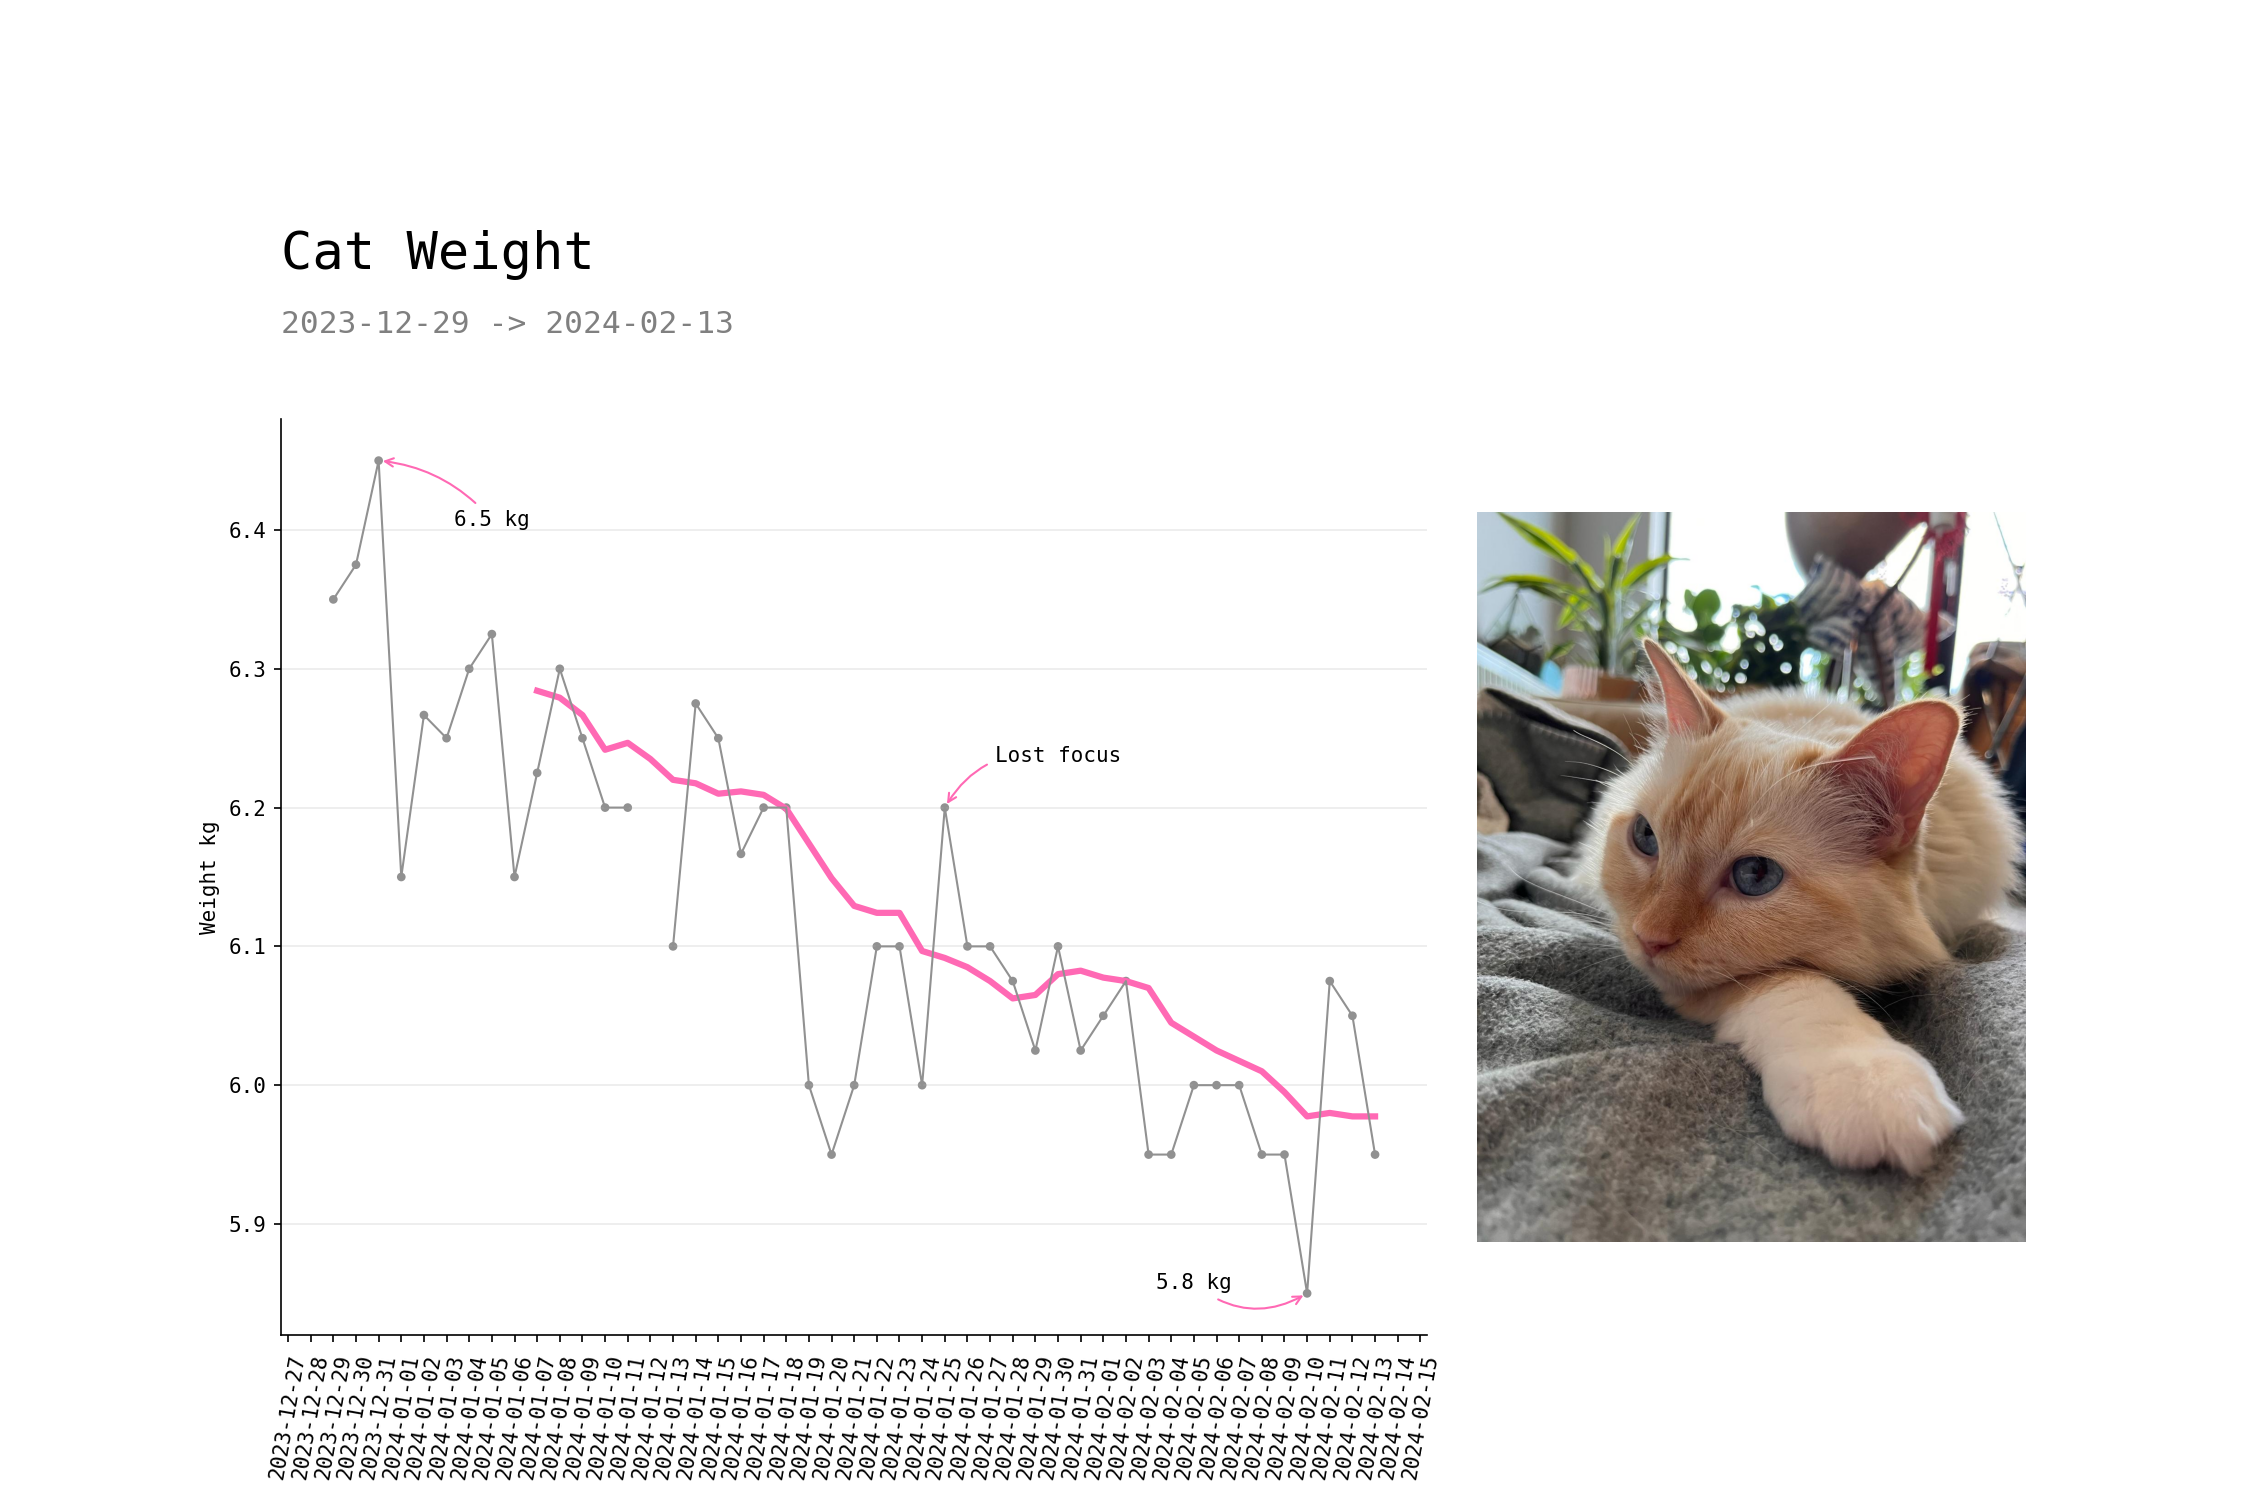
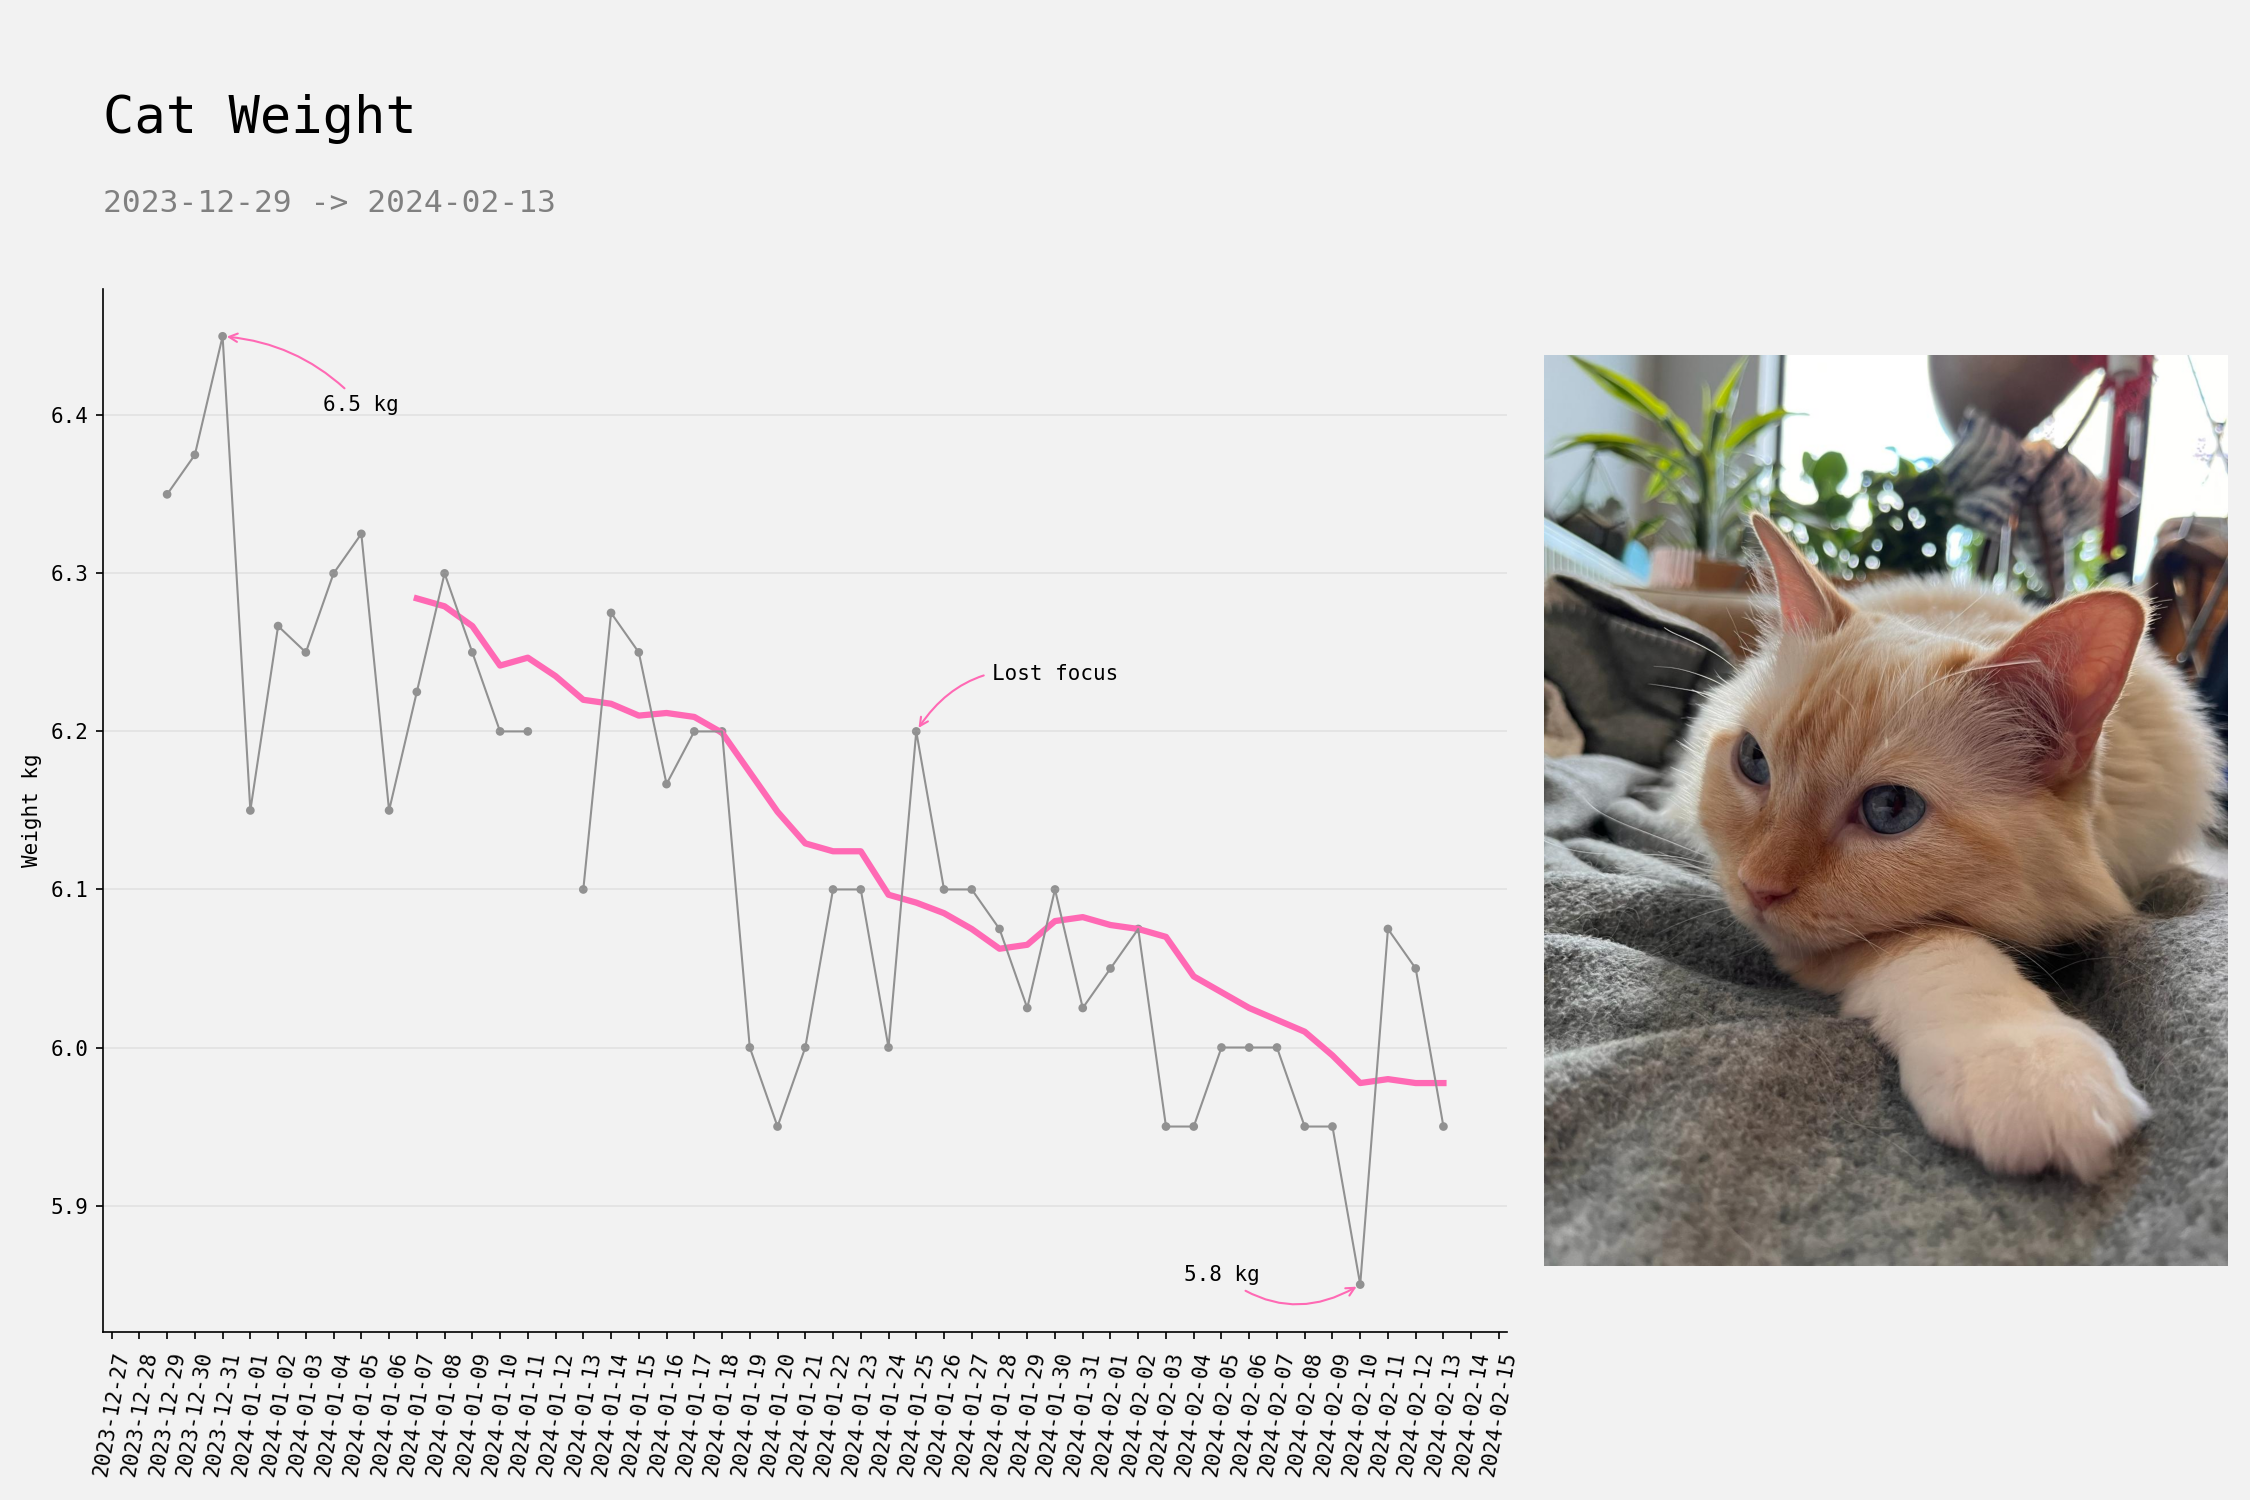
Update typing (#4)

diff --git a/plotting_examples/y2022/stacked_bar_with_single_bars_layout/plot.py b/plotting_examples/y2022/stacked_bar_with_single_bars_layout/plot.py
@@ -199,7 +199,7 @@ class PlotSections:
     # rename to bivariate.
     @staticmethod
     def main(
-        ax: plt.Axes,
+        ax: plt.Axes,  # type: ignore[name-defined]
         df: pd.DataFrame,
         vvl: dict[str, dict[float, str]],
         # cnl: dict[str, str],
@@ -270,7 +270,7 @@ class PlotSections:
 
     @staticmethod
     def side_marginal(
-        ax: plt.Axes,
+        ax: plt.Axes,  # type: ignore[name-defined]
         df: pd.DataFrame,
         vvl: dict[str, dict[float, str]],
         cnl: dict[str, str],
@@ -316,7 +316,7 @@ class PlotSections:
 
     @staticmethod
     def bottom_marginal(
-        ax: plt.Axes,
+        ax: plt.Axes,  # type: ignore[name-defined]
         df: pd.DataFrame,
         vvl: dict[str, dict[float, str]],
         cnl: dict[str, str],
@@ -357,7 +357,7 @@ class PlotSections:
         ax.spines.left.set_visible(False)
 
     @staticmethod
-    def title(ax: plt.Axes, cnl: dict[str, str]) -> None:
+    def title(ax: plt.Axes, cnl: dict[str, str]) -> None:  # type: ignore[name-defined]
         """Overall title."""
         ax.text(
             s="Labradors",
@@ -384,7 +384,7 @@ class PlotSections:
         ax.axis("off")
 
     @staticmethod
-    def top_left_corner(ax: plt.Axes) -> None:
+    def top_left_corner(ax: plt.Axes) -> None:  # type: ignore[name-defined]
         """Plot logo."""
         img_path = IMAGE_PATH
         club_icon = Image.open(img_path)
@@ -392,12 +392,12 @@ class PlotSections:
         ax.axis("off")
 
     @staticmethod
-    def top_right_corner(ax: plt.Axes) -> None:
+    def top_right_corner(ax: plt.Axes) -> None:  # type: ignore[name-defined]
         """Just leaving this empty for now."""
         ax.axis("off")
 
     @staticmethod
-    def bottom_right_corner(ax: plt.Axes, df: pd.DataFrame) -> None:
+    def bottom_right_corner(ax: plt.Axes, df: pd.DataFrame) -> None:  # type: ignore[name-defined]
         """Some random information like data source etc."""
         ax.text(
             s=(
@@ -420,7 +420,7 @@ class PlotSections:
         ax.axis("off")
 
     @staticmethod
-    def footnote(ax: plt.Axes) -> None:
+    def footnote(ax: plt.Axes) -> None:  # type: ignore[name-defined]
         """
         Plot footnote.
 
@@ -458,7 +458,7 @@ def main() -> mpl.figure.Figure:
         fig = plt.figure(
             figsize=(15, 10),
         )
-        ax_dict = fig.subplot_mosaic(LAYOUT)
+        ax_dict = fig.subplot_mosaic(LAYOUT)  # type: ignore[arg-type]
 
         plot_sections.title(ax=ax_dict["title"], cnl=cnl)
         plot_sections.bottom_marginal(

diff --git a/plotting_examples/y2022/scatter_distributions/plot.py b/plotting_examples/y2022/scatter_distributions/plot.py
@@ -71,8 +71,8 @@ def sample_data(n_categories: int = 12) -> tuple[pd.DataFrame, dict[int, str]]:
         # what we might see from timing data or whatever.
         loc_min = 2
         loc_max = 7
-        mode_1_loc = np_rnd.integers(loc_min, loc_max, size=1)
-        size = np_rnd.integers(10, 250, size=1)
+        mode_1_loc = np_rnd.integers(loc_min, loc_max, size=1)[0]
+        size = np_rnd.integers(10, 250, size=1)[0]
         mode_1 = np_rnd.normal(
             loc=mode_1_loc,
             scale=2,
@@ -83,7 +83,7 @@ def sample_data(n_categories: int = 12) -> tuple[pd.DataFrame, dict[int, str]]:
         if mode_1_loc > loc_max / (loc_max + loc_min):
             direction = -1
 
-        def _np_array_to_int(arr: np.ndarray | int) -> int:
+        def _np_array_to_int(arr: npt.ArrayLike | int) -> int:
             """
             Convert single element ndarray to int.
 
@@ -94,8 +94,8 @@ def sample_data(n_categories: int = 12) -> tuple[pd.DataFrame, dict[int, str]]:
                 assert len(arr) == 1
                 arr = arr[0]
             else:
-                assert isinstance(arr, int)
-            return arr
+                assert isinstance(arr, int | np.int64)
+            return cast(int, arr)
 
         mode_1_loc = _np_array_to_int(arr=mode_1_loc)
         mode_2_loc = int(mode_1_loc + direction * mode_1_loc * 0.5)
@@ -124,7 +124,7 @@ def sample_data(n_categories: int = 12) -> tuple[pd.DataFrame, dict[int, str]]:
 
 def categorical_scatters(
     *,
-    ax: plt.Axes,
+    ax: plt.Axes,  # type: ignore[name-defined]
     data: pd.DataFrame,
     cont_var: str,
     cat_var: str,
@@ -133,7 +133,7 @@ def categorical_scatters(
     # meant to be the same color then just pass in with the same value for each category
     # - they should all still be represented though.
     color_map: Mapping[Any, str] | None = None,
-) -> plt.Axes:
+) -> plt.Axes:  # type: ignore[name-defined]
     """Create plot."""
     # Can use this to get alternating colours, i did then went off it.
     colors = itertools.cycle(
@@ -220,7 +220,7 @@ def main() -> mpl.figure.Figure:
     ax.spines["left"].set_visible(False)
     ax.spines["bottom"].set_visible(False)
 
-    fig.set_tight_layout(True)
+    fig.set_tight_layout(True)  # type: ignore[attr-defined]
     fig.patch.set_facecolor(metadata.color.BACKGROUND_COLOUR)
     ax.set_facecolor(metadata.color.BACKGROUND_COLOUR)
     return fig

diff --git a/plotting_examples/y2022/split_x_axis_custom_legend/plot.py b/plotting_examples/y2022/split_x_axis_custom_legend/plot.py
@@ -99,11 +99,11 @@ def main() -> mpl.figure.Figure:
         )
     )
 
-    def format_axis(ax: plt.Axes) -> None:
+    def format_axis(ax: plt.Axes) -> None:  # type: ignore[name-defined]
         """Format axis."""
         ax.grid(alpha=0.2)
 
-    def stream_plot(df: pd.DataFrame, country: str, ax: plt.Axes) -> None:
+    def stream_plot(df: pd.DataFrame, country: str, ax: plt.Axes) -> None:  # type: ignore[name-defined]
         for _, song_data in df.groupby("song"):
             ax.plot(
                 song_data["date"],
@@ -132,17 +132,17 @@ def main() -> mpl.figure.Figure:
         ax.spines["top"].set_visible(False)
         ax.spines["right"].set_visible(False)
 
-        fmt_month = mdates.MonthLocator(interval=1)
-        fmt_year = mdates.YearLocator()
+        fmt_month = mdates.MonthLocator(interval=1)  # type: ignore[no-untyped-call]
+        fmt_year = mdates.YearLocator()  # type: ignore[no-untyped-call]
         ax.xaxis.set_minor_locator(fmt_month)
-        ax.xaxis.set_minor_formatter(mdates.DateFormatter("%b"))
+        ax.xaxis.set_minor_formatter(mdates.DateFormatter("%b"))  # type: ignore[no-untyped-call]
         ax.xaxis.set_ticks([])
 
         ax.tick_params(axis="x", which="minor", labelsize=8)
 
         sec_xaxis = ax.secondary_xaxis(-0.1)
         sec_xaxis.xaxis.set_major_locator(fmt_year)
-        sec_xaxis.xaxis.set_major_formatter(mdates.DateFormatter("%Y"))
+        sec_xaxis.xaxis.set_major_formatter(mdates.DateFormatter("%Y"))  # type: ignore[no-untyped-call]
         sec_xaxis.spines["bottom"].set_visible(False)
         sec_xaxis.tick_params(length=0, labelsize=12)
 

diff --git a/plotting_examples/y2024/cat_weight/plot.py b/plotting_examples/y2024/cat_weight/plot.py
@@ -167,7 +167,7 @@ def main() -> mpl.figure.Figure:
         },
     ):
         fig = plt.figure(figsize=(15, 10))
-        ax_dict = fig.subplot_mosaic(LAYOUT)
+        ax_dict = fig.subplot_mosaic(LAYOUT)  # type: ignore[arg-type]
 
         # Plot rolling average
         ax_dict["main"].plot(df["datestamp"], df["r10"], color=color.PINK_COLOUR, lw=3)
@@ -190,11 +190,11 @@ def main() -> mpl.figure.Figure:
         )
 
         ax_dict["main"].set_ylabel("Weight kg")
-        ax_dict["main"].xaxis.set_major_locator(mdates.DayLocator(interval=1))
+        ax_dict["main"].xaxis.set_major_locator(mdates.DayLocator(interval=1))  # type: ignore[no-untyped-call]
 
         for label in ax_dict["main"].get_xticklabels():
             label.set_rotation(80)
-            label.set_ha("center")
+            label.set_ha("center")  # type: ignore[attr-defined]
 
         # Remove spines for top/right
         ax_dict["main"].spines["top"].set_visible(False)
@@ -322,6 +322,12 @@ def main() -> mpl.figure.Figure:
             verticalalignment="bottom",
             color=COLOR_SUBTITLE_TEXT,
         )
+
+        for axis in {x for lst in LAYOUT for x in lst}:
+            ax_dict[axis].set_facecolor(metadata.color.BACKGROUND_COLOUR)
+
+        fig.set_tight_layout(True)  # type: ignore[attr-defined]
+        fig.patch.set_facecolor(metadata.color.BACKGROUND_COLOUR)
 
         return fig
 

diff --git a/plotting_examples/y2022/line_plot_fill_between/plot.py b/plotting_examples/y2022/line_plot_fill_between/plot.py
@@ -97,7 +97,7 @@ def main() -> mpl.figure.Figure:
             zorder=3,
         )
 
-        ax.xaxis.set_major_locator(mdates.DayLocator(interval=1))
+        ax.xaxis.set_major_locator(mdates.DayLocator(interval=1))  # type: ignore[no-untyped-call]
         ax.grid(alpha=0.15)
 
         # labels
@@ -159,8 +159,8 @@ def main() -> mpl.figure.Figure:
         )
 
         # Format default axis to just show the month/day.
-        ax.xaxis.set_major_locator(mdates.DayLocator(interval=1))
-        ax.xaxis.set_major_formatter(mdates.DateFormatter("%d/%m"))
+        ax.xaxis.set_major_locator(mdates.DayLocator(interval=1))  # type: ignore[no-untyped-call]
+        ax.xaxis.set_major_formatter(mdates.DateFormatter("%d/%m"))  # type: ignore[no-untyped-call]
 
         for label in ax.get_xticklabels():
             label.set_rotation(80)
@@ -169,7 +169,7 @@ def main() -> mpl.figure.Figure:
     fig.patch.set_facecolor(metadata.color.BACKGROUND_COLOUR)
     ax.set_facecolor(metadata.color.BACKGROUND_COLOUR)
 
-    fig.set_tight_layout(True)
+    fig.set_tight_layout(True)  # type: ignore[attr-defined]
     return fig
 
 

diff --git a/plotting_examples/y2022/box_plot_w_scatter_distributions/plot.py b/plotting_examples/y2022/box_plot_w_scatter_distributions/plot.py
@@ -154,7 +154,7 @@ def top_bottom_whisker_y_values(*, values: list[float]) -> tuple[float, float]:
 
 def boxp_hline(
     *,
-    ax: plt.Axes,
+    ax: plt.Axes,  # type: ignore[name-defined]
     x_center: float,
     y_value: float,
     box_width: float,
@@ -174,7 +174,7 @@ def boxp_hline(
 
 
 def boxp_vline(
-    ax: plt.Axes,
+    ax: plt.Axes,  # type: ignore[name-defined]
     x: float,
     ymin: float,
     ymax: float,
@@ -195,7 +195,7 @@ def boxp_vline(
 
 def whisker_tops(
     *,
-    ax: plt.Axes,
+    ax: plt.Axes,  # type: ignore[name-defined]
     whisker_top: float,
     whisker_bottom: float,
     xmin: float,
@@ -221,7 +221,7 @@ def whisker_tops(
 
 def make_single_box(
     *,
-    ax: plt.Axes,
+    ax: plt.Axes,  # type: ignore[name-defined]
     values: list[float],
     x_center: float,
     scatter_color: str,

diff --git a/plotting_examples/y2022/pos_neg_split_hbar/plot.py b/plotting_examples/y2022/pos_neg_split_hbar/plot.py
@@ -57,7 +57,7 @@ def sample_data() -> tuple[pd.DataFrame, dict[int, str], dict[str, str]]:
     return df, index_to_meaning_map, colour_map
 
 
-def plot_bar_percentages(df: pd.DataFrame, ax: plt.Axes) -> plt.Axes:
+def plot_bar_percentages(df: pd.DataFrame, ax: plt.Axes) -> plt.Axes:  # type: ignore[name-defined]
     """Plot percentages next to bars."""
     # Plot the percentages.
     for i, patch in enumerate(ax.patches):
@@ -173,7 +173,7 @@ def main() -> mpl.figure.Figure:
 
         ax.grid(linewidth=0.2, which="major", axis="y")
 
-        fig.set_tight_layout(True)
+        fig.set_tight_layout(True)  # type: ignore[attr-defined]
         fig.patch.set_facecolor(metadata.color.BACKGROUND_COLOUR)
         ax.set_facecolor(metadata.color.BACKGROUND_COLOUR)
     return fig

diff --git a/plotting_examples/y2022/scatter_w_outlined_text_insert/plot.py b/plotting_examples/y2022/scatter_w_outlined_text_insert/plot.py
@@ -140,8 +140,8 @@ def main() -> mpl.figure.Figure:
 
         ax.grid(alpha=0.15, axis="y", zorder=0)
 
-        years = YearLocator(5)  # every year
-        years_fmt = DateFormatter("%Y")
+        years = YearLocator(5)  # type: ignore[no-untyped-call]
+        years_fmt = DateFormatter("%Y")  # type: ignore[no-untyped-call]
         ax.xaxis.set_major_locator(years)
         ax.xaxis.set_major_formatter(years_fmt)
 

diff --git a/plotting_examples/y2022/uk_hexmap/plot.py b/plotting_examples/y2022/uk_hexmap/plot.py
@@ -131,7 +131,7 @@ def main() -> mpl.figure.Figure:
         colors = [partycolors[k] for k in sorted(partycolors.keys())]
 
     fig.patch.set_facecolor(metadata.color.BACKGROUND_COLOUR)
-    fig.set_tight_layout(True)
+    fig.set_tight_layout(True)  # type: ignore[attr-defined]
     ax.set_facecolor(metadata.color.BACKGROUND_COLOUR)
     return fig
 

diff --git a/plotting_examples/y2022/pandas_stacked_bars_with_values/plot.py b/plotting_examples/y2022/pandas_stacked_bars_with_values/plot.py
@@ -146,7 +146,7 @@ def main() -> mpl.figure.Figure:
         ax.set_xlim(0, 100)
         ax.xaxis.set_major_locator(loc)
 
-    fig.set_tight_layout(True)
+    fig.set_tight_layout(True)  # type: ignore[attr-defined]
     fig.patch.set_facecolor(metadata.color.BACKGROUND_COLOUR)
     ax.set_facecolor(metadata.color.BACKGROUND_COLOUR)
     return fig

diff --git a/generate_readme.py b/generate_readme.py
@@ -77,6 +77,10 @@ def docstring_from_py_module(*, mod_path: str | Path) -> str:
         msg = f"No docstring found for : {mod_path}"
         raise ValueError(msg)
 
+    if docstr is None:
+        msg = "Do not expect docstring to be None."
+        raise ValueError(msg)
+
     return docstr
 
 

diff --git a/plotting_examples/y2022/bar_plot_w_custom_cmap/plot.py b/plotting_examples/y2022/bar_plot_w_custom_cmap/plot.py
@@ -184,7 +184,7 @@ def main() -> mpl.figure.Figure:
 
         ax.set_facecolor(metadata.color.BACKGROUND_COLOUR)
 
-    fig.set_tight_layout(True)
+    fig.set_tight_layout(True)  # type: ignore[attr-defined]
     fig.patch.set_facecolor(metadata.color.BACKGROUND_COLOUR)
     return fig
 
